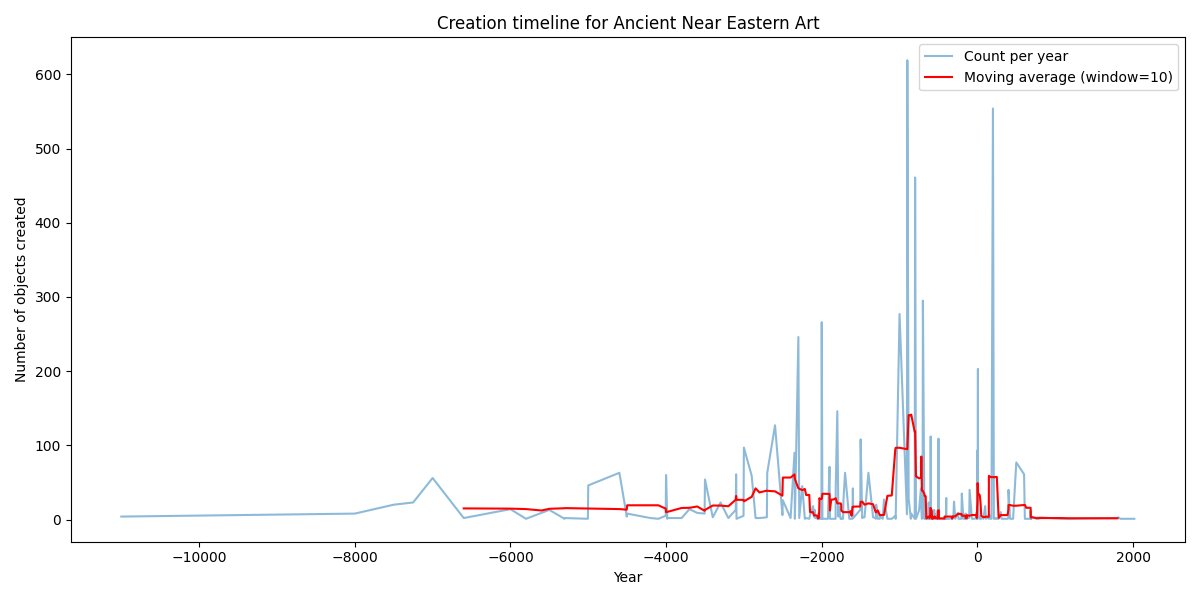
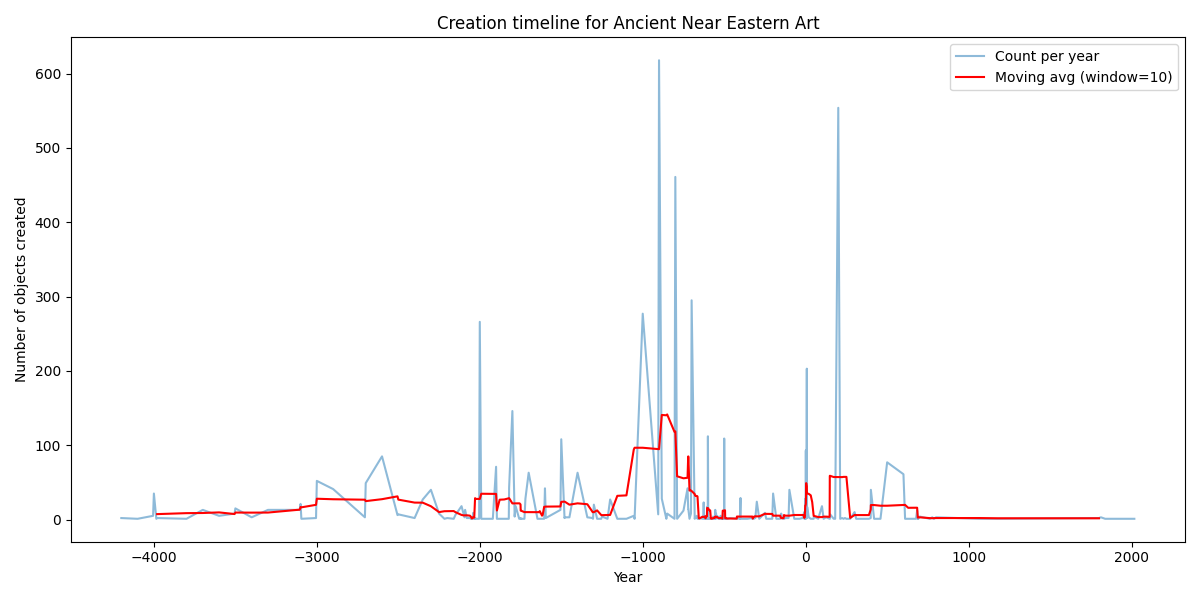
Лаба3 вроде доделал

diff --git a/Lab3/main.py b/Lab3/main.py
@@ -9,8 +9,8 @@
 построить временной график создания объектов, со скользящим
 средним.
 """
-from collections import defaultdict
-from typing import Dict, Iterable
+from collections import Counter, defaultdict
+from typing import Any, Dict, Generator, Iterable, List, Tuple
 
 import matplotlib.pyplot as plt
 
@@ -19,63 +19,86 @@ import numpy as np
 import pandas as pd
 
 
-def run_pipeline(filepath: str, chunksize: int = 10000) -> Dict:
+FILE_PATH = 'MetObjects.csv'
+CHUNK_SIZE = 10000
+CATEGORICAL_COLUMNS = ['Department', 'Culture', 'Medium', 'Classification', 'Country']
+
+
+def read_chunks(filepath: str,
+                chunksize: int = CHUNK_SIZE) -> Generator[pd.DataFrame, None, None]:
     """
-    Пайплайн, обрабатывающий массив данных.
+    Генератор, читающий файл частями.
 
     Args:
-        filepath (str): Путь до массива данных (csv).
-        chunksize (int): Размер блока.
+        filepath: путь к CSV-файлу.
+        chunksize: размер чанка.
 
-    Returns:
-        result (dict): Словарь с результатами.
+    Yields:
+        pd.DataFrame: очередной чанк данных.
     """
     reader = pd.read_csv(filepath, chunksize=chunksize, encoding='utf-8-sig')
+    for chunk in reader:
+        yield chunk
 
-    def extract(iterator: Iterable) -> :
-        """
-        Итератор, извлекающий Department и Object Begin Date.
-        Приводит дату к числу.
-        Удаляет None значения.
 
-        Args:
-            iterator: Итератор
+def process_department_data(
+    chunk_iter: Generator[pd.DataFrame, None, None]
+) -> Generator[Dict[str, Dict[str, Any]], None, None]:
+    """
+    Генератор, накапливающий для каждого отдела статистику и список дат.
 
-        Yields:
-            df: Обработанная часть
-        """
-        for chunk in iterator:
-            df = chunk[['Department', 'Object Begin Date']].copy()
-            df['Object Begin Date'] = pd.to_numeric(df['Object Begin Date'],
-                                                    errors='coerce')
-            df = df.dropna(subset='Object Begin Date')
-            q1 = df['Object Begin Date'].quantile(0.25)
-            q3 = df['Object Begin Date'].quantile(0.75)
-            iqr = q3 - q1
-            lower_bound = q1 - 1.5 * iqr
-            upper_bound = q3 + 1.5 * iqr
-            df = df[(df['Object Begin Date'] >= lower_bound) & (df['Object Begin Date'] <= upper_bound)]
-            yield df
+    Args:
+        chunk_iter: генератор чанков.
 
-    data_iter = extract(reader)
-
-    stats = defaultdict(lambda: {'count': 0, 'sum': 0, 'sum2': 0})
-    for chunk in data_iter:
-        for _, row in chunk.iterrows():
+    Yields:
+        Словарь: ключ – отдел, значение – словарь с полями:
+            count, sum, sum2, dates.
+    """
+    dept_data = defaultdict(lambda: {'count': 0, 'sum': 0.0, 'sum2': 0.0, 'dates': []})
+    for chunk in chunk_iter:
+        df = chunk[['Department', 'Object Begin Date']].copy()
+        df['Object Begin Date'] = pd.to_numeric(df['Object Begin Date'], errors='coerce')
+        # Расчёт интерквартильного размаха
+        q1 = df['Object Begin Date'].quantile(0.25)
+        q3 = df['Object Begin Date'].quantile(0.75)
+        iqr = q3 - q1
+        lower_bound = q1 - 1.5 * iqr
+        upper_bound = q3 + 1.5 * iqr
+        # Отрезание того, что не попадает в интерквартильный размах
+        df = df[(df['Object Begin Date'] >= lower_bound) & (df['Object Begin Date'] <= upper_bound)]  # noqa E501
+        df = df.dropna(subset=['Object Begin Date'])
+        for _, row in df.iterrows():
             dept = row['Department']
             date = row['Object Begin Date']
-            stats[dept]['count'] += 1
-            stats[dept]['sum'] += date
-            stats[dept]['sum2'] += date * date
+            dept_data[dept]['count'] += 1
+            dept_data[dept]['sum'] += date
+            dept_data[dept]['sum2'] += date * date
+            dept_data[dept]['dates'].append(date)
 
+    yield dept_data
+
+
+def compute_stats(
+    dept_data: Dict[str, Dict[str, Any]]
+) -> Tuple[Dict[str, Dict[str, Any]], str]:
+    """
+    Вычисляет финальные метрики для каждого отдела.
+
+    Args:
+        dept_data: накопленная статистика (count, sum, sum2, dates).
+
+    Returns:
+        results: словарь с метриками (mean, std, ci_lower, ci_upper,
+                 scatter_lower, scatter_upper, dates).
+        max_std_dept: отдел с максимальным стандартным отклонением.
+    """
     results = {}
-    for dept, s in stats.items():
-        cnt = s['count']
-        if cnt < 2:
-            continue  # недостаточно данных для статистики
-
-        mean = s['sum'] / cnt
-        variance = (s['sum2'] / cnt) - mean**2
+    max_std = -1.0
+    max_std_dept = ''
+    for dept, data in dept_data.items():
+        cnt = data['count']
+        mean = data['sum'] / cnt
+        variance = (data['sum2'] / cnt) - mean ** 2
         std = np.sqrt(variance)
         ci_margin = 1.96 * std / np.sqrt(cnt)
         scatter_margin = 1.96 * std
@@ -87,17 +110,66 @@ def run_pipeline(filepath: str, chunksize: int = 10000) -> Dict:
             'ci_upper': mean + ci_margin,
             'scatter_lower': mean - scatter_margin,
             'scatter_upper': mean + scatter_margin,
+            'dates': data['dates']
+        }
+        if std > max_std:
+            max_std = std
+            max_std_dept = dept
+
+    return results, max_std_dept
+
+
+def compute_categorical_metrics(filepath: str, columns: List[str],
+                                chunksize: int = 10000) -> Dict[str, Dict[str, Any]]:
+    """
+    Вычисляет метрики для категориальных полей.
+
+    Args:
+        filepath (str): Путь к CSV-файлу.
+        columns (List): Список имён столбцов.
+        chunksize (int): Размер куска.
+
+    Returns:
+        Dict: для каждого поля gini, norm_entropy, enc, num_categories, total_entries.
+    """
+    counters = {col: Counter() for col in columns}
+    reader = pd.read_csv(filepath, chunksize=chunksize, encoding='utf-8-sig',
+                         usecols=columns)
+    for chunk in reader:
+        for col in columns:
+            values = chunk[col].dropna().astype(str).str.strip()
+            values = values[values != '']
+            counters[col].update(values)
+
+    metrics = {}
+    for col, cnt in counters.items():
+        n = sum(cnt.values())
+        if n == 0:
+            continue
+
+        probs = np.array([c / n for c in cnt.values()])
+        gini = 1 - np.sum(probs**2)
+        entropy = -np.sum(probs * np.log(probs))
+        n_counts = len(cnt)
+        norm_entropy = entropy / np.log(n_counts) if n_counts > 1 else 0
+        enc = np.exp(entropy)
+        metrics[col] = {
+            'gini': gini,
+            'norm_entropy': norm_entropy,
+            'enc': enc,
+            'num_categories': n_counts,
+            'total_entries': n
         }
 
-    return results
+    return metrics
 
 
-def plot_department_ages(results: dict) -> None:
+def plot_department_ages(results: Dict[str, Dict[str, Any]]) -> None:
     """
     Построение столбцовой диаграммы.
 
     Args:
-        results (dict): Полученный пайплайном результат для визуализации.
+        results (Dict): Полученный пайплайном результат для визуализации.
     """
     depts = list(results.keys())
     means = [results[d]['mean'] for d in depts]
@@ -117,52 +189,82 @@ def plot_department_ages(results: dict) -> None:
     plt.show()
 
 
-def timeline_for_max_spread(filepath: str, results: dict, chunksize: int = 10000) -> None:
+def plot_timeline(department: str, dates: List[float]) -> None:
     """
-    Временной график для отдела с максимальным разбросом.
+    Временной график количества созданных объектов со скользящим средним.
 
     Args:
-        filepath (str): Путь до массива данных (csv).
-        results (dict): Полученный пайплайном результат для визуализации.
-        chunksize (int): Размер блока.
+        department: название отдела.
+        dates: список годов создания.
     """
-    # Находим отдел с максимальным стандартным отклонением
-    max_dept = max(results, key=lambda d: results[d]['std'])
-    print(f"Department with highest spread: {max_dept}")
-
-    # Второй проход: собираем все даты для этого отдела
-    dates = []
-    reader = pd.read_csv(filepath, chunksize=chunksize, encoding='utf-8-sig')
-    for chunk in reader:
-        mask = chunk['Department'] == max_dept
-        chunk = chunk.loc[mask, ['Object Begin Date']].copy()
-        chunk['Object Begin Date'] = pd.to_numeric(chunk['Object Begin Date'],
-                                                   errors='coerce')
-        chunk = chunk.dropna()
-        dates.extend(chunk['Object Begin Date'].tolist())
-
-    # Группировка по годам
     year_counts = pd.Series(dates).value_counts().sort_index()
-
-    # Скользящее среднее (окно 10 лет)
     window = 10
     rolling_avg = year_counts.rolling(window=window, center=True).mean()
 
     plt.figure(figsize=(12, 6))
     plt.plot(year_counts.index, year_counts.values, alpha=0.5, label='Count per year')
     plt.plot(rolling_avg.index, rolling_avg.values, color='red',
-             label=f'Moving average (window={window})')
+             label=f'Moving avg (window={window})')
     plt.xlabel('Year')
     plt.ylabel('Number of objects created')
-    plt.title(f'Creation timeline for {max_dept}')
+    plt.title(f'Creation timeline for {department}')
     plt.legend()
     plt.tight_layout()
     plt.savefig('Lab3\\timeline.png')
     plt.show()
 
 
-if __name__ == '__main__':
-    filepath = 'MetObjects.csv'
-    results = run_pipeline(filepath, chunksize=10000)
+def plot_heatmap(metrics: Dict[str, Dict[str, Any]]) -> None:
+    """
+    Строит тепловую карту метрик (нормированных по столбцам).
+
+    Args:
+        metrics (Dict): Словарь метрик для каждого поля.
+    """
+    cols = list(metrics.keys())
+    metric_names = ['gini', 'norm_entropy', 'enc']
+    data = np.array([[metrics[col][m] for m in metric_names] for col in cols])
+
+    # Нормализация по столбцам
+    data_norm = data.copy()
+    for i in range(data.shape[1]):
+        col_vals = data[:, i]
+        if col_vals.max() - col_vals.min() > 0:
+            data_norm[:, i] = (col_vals - col_vals.min()) / (col_vals.max() - col_vals.min())  # noqa E501
+        else:
+            data_norm[:, i] = 0.0
+
+    plt.figure(figsize=(8, len(cols) * 0.5 + 1))
+    im = plt.imshow(data_norm, cmap='RdYlGn_r', aspect='auto', vmin=0, vmax=1)
+    plt.xticks(np.arange(len(metric_names)), metric_names, rotation=45, ha='right')
+    plt.yticks(np.arange(len(cols)), cols)
+    plt.colorbar(im, label='Normalized value (higher = better quality)')
+    plt.title('Categorical Data Quality Metrics')
+    plt.tight_layout()
+    plt.savefig('Lab3\\categorical_heatmap.png')
+    plt.show()
+
+    print("\nMetrics per column:")
+    for col in cols:
+        m = metrics[col]
+        print(f"{col}: Gini={m['gini']:.4f}, NormEntropy={m['norm_entropy']:.4f}, "
+              f"ENC={m['enc']:.2f} (categories={m['num_categories']})")
+
+
+def main() -> None:
+    """Запуск анализа."""
+    chunks = read_chunks(FILE_PATH, CHUNK_SIZE)
+    data_iter = process_department_data(chunks)
+    dept_data = next(data_iter)
+    results, max_std_dept = compute_stats(dept_data)
+    print(f"Отдел с максимальным разбросом (std): {max_std_dept}")
     plot_department_ages(results)
-    timeline_for_max_spread(filepath, results, chunksize=10000)
+    dates_for_timeline = results[max_std_dept]['dates']
+    plot_timeline(max_std_dept, dates_for_timeline)
+
+    metrics = compute_categorical_metrics(FILE_PATH, CATEGORICAL_COLUMNS, CHUNK_SIZE)
+    plot_heatmap(metrics)
+
+
+if __name__ == '__main__':
+    main()
